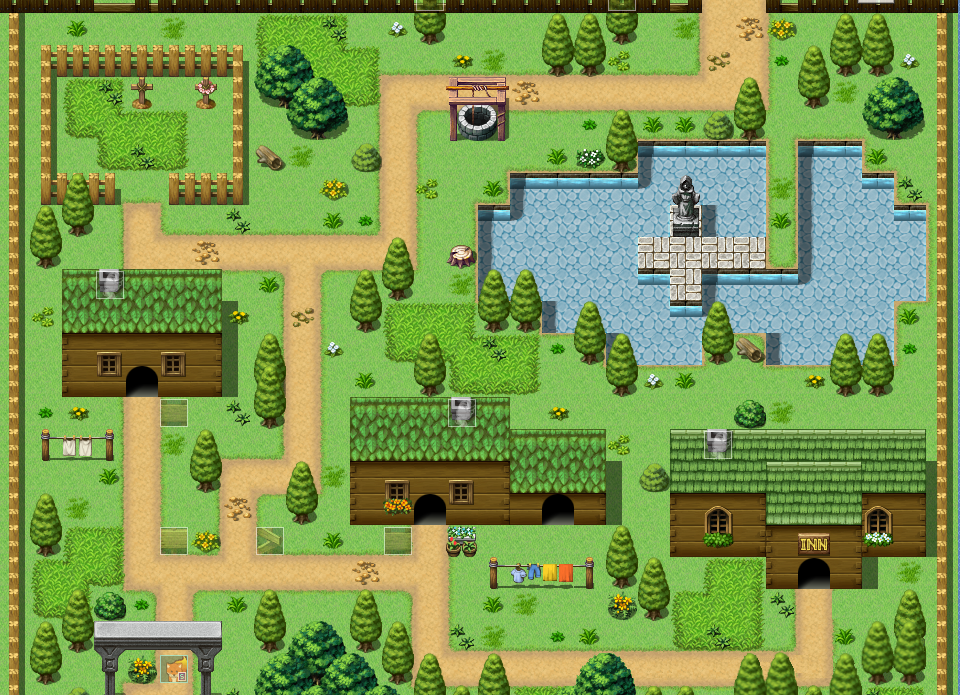
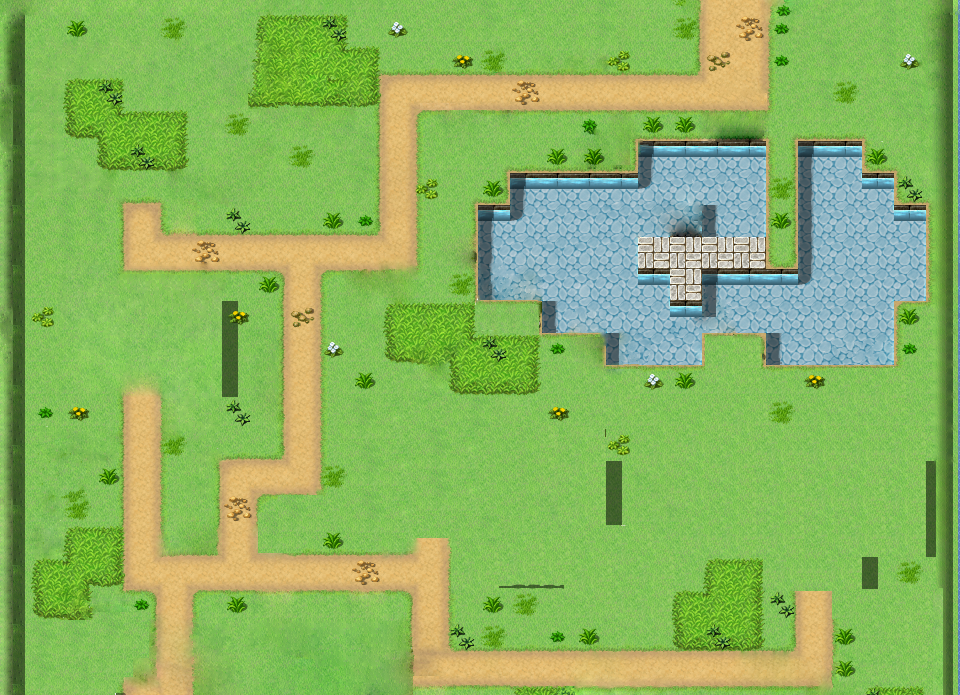
feat : map

diff --git a/src/setup/map/map_set_up.c b/src/setup/map/map_set_up.c
@@ -11,10 +11,13 @@ int set_up_map(map_t *map, sfRenderWindow *window)
 {
     map->rect = (sfFloatRect) {0.0, get_resize(window, 495.0, 0).x,
                 400.0, 200.0};
-    map->texture = sfTexture_createFromFile(MAP_P, NULL);
-    if (!map->texture)
+    map->texture_ground = sfTexture_createFromFile(MAP_P, NULL);
+    map->texture_obj = sfTexture_createFromFile(MAP_OBJ, NULL);
+    if (!map->texture_ground)
         return KO;
-    map->sprite = create_button(map->texture, (sfVector2f) {1.0, 1.0},
+    map->sprite_ground = create_button(map->texture_ground, (sfVector2f) {1.0, 1.0},
+    (sfVector2f) {0.0, 0.0});
+    map->sprite_obj = create_button(map->texture_obj, (sfVector2f) {1.0, 1.0},
     (sfVector2f) {0.0, 0.0});
     map->view = sfView_createFromRect(map->rect);
     return OK;

diff --git a/include/map.h b/include/map.h
@@ -8,13 +8,17 @@
 #ifndef MAP_H_
     #define MAP_H_
     #define MAP_P "assets/map/map_rpg.png"
+    #define MAP_OBJ "assets/map/map_rpg_texture.png"
 
     #include <SFML/Graphics.h>
     #include <SFML/Window.h>
 
 typedef struct map_s {
-    sfTexture *texture;
-    sfSprite *sprite;
+    sfTexture *texture_obj;
+    sfSprite *sprite_obj;
+
+    sfTexture *texture_ground;
+    sfSprite *sprite_ground;
     sfView *view;
     sfFloatRect rect;
 } map_t;

diff --git a/src/rpg_loop.c b/src/rpg_loop.c
@@ -9,7 +9,10 @@
 
 static void draw_game(rpg_t *rpg)
 {
-    sfRenderWindow_drawSprite(rpg->window, rpg->map->sprite, NULL);
+    sfRenderWindow_clear(rpg->window, sfRed);
+    sfRenderWindow_drawSprite(rpg->window, rpg->map->sprite_ground, NULL);
+    //Draw character
+    sfRenderWindow_drawSprite(rpg->window, rpg->map->sprite_obj, NULL);
     return;
 }
 
